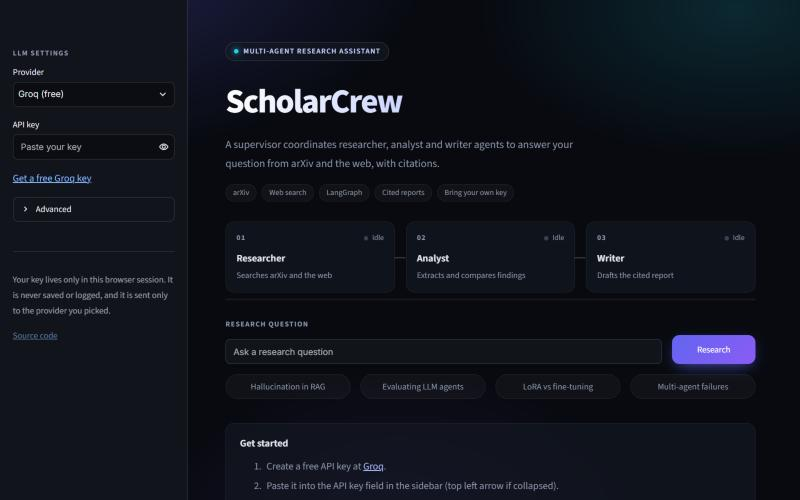
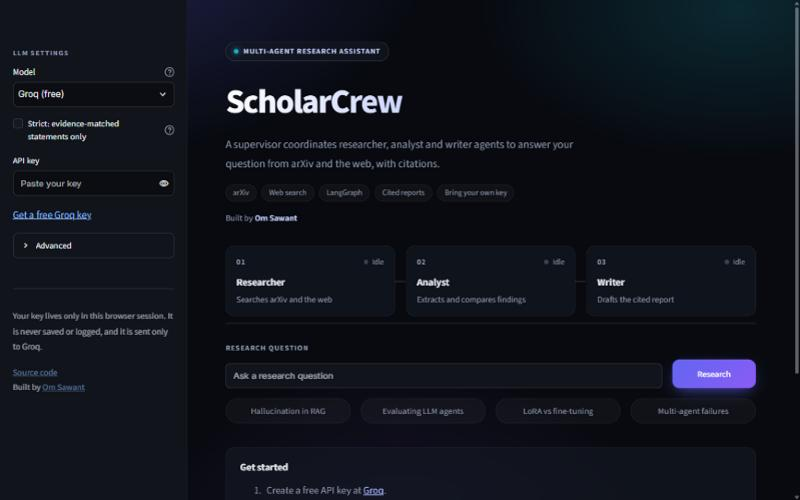
docs: refresh the README and screenshot (#35)

diff --git a/README.md b/README.md
@@ -32,9 +32,12 @@ Built on [LangGraph](https://github.com/langchain-ai/langgraph).
 - **Validated routing.** The supervisor checks every routing decision and falls back to a fixed
   order on malformed output. A step cap guarantees termination.
 - **Citations from retrieved sources only.** The reference list is built from the retrieved
-  sources, not written by the model. Each statement carries its own citations, re-pointed to the
-  source that best matches it.
-- **Optional strict mode.** Keeps only statements whose cited source contains matching text.
+  sources, not written by the model. The writer cites facts taken from sources and leaves its own
+  conclusions uncited; each cited statement carries its own citations, re-pointed to the source
+  that best matches it.
+- **Optional strict mode.** Keeps only cited statements whose source contains matching text. In
+  tests, about 90% of the statements kept were supported, against 80% without it, with about a
+  quarter dropped. A text match is not proof.
 - **Visible failures.** Model errors are logged, and the app checks the key and model before
   starting.
 - **Offline tests.** A scripted fake model and fake search tools; no network or key needed.
@@ -52,8 +55,9 @@ on 30 held-out questions (2 samples each, judge `qwen3.8-27b`):
 | Qwen3-4B + LoRA | 48% | 61% | 88% |
 
 Fine-tuning improved citation coverage, not faithfulness. The citation repair applied in the
-app raised both writers to 61%. Limitations (small sample, one judge, repair tuned on the same
-questions) are in [docs/evaluation.md](docs/evaluation.md).
+app raised both writers to 61%. Later writer changes and strict mode are measured in
+[docs/evaluation.md](docs/evaluation.md), with the limitations (small sample, one judge, repair
+tuned on the same questions).
 
 ## Run locally
 
@@ -61,6 +65,7 @@ questions) are in [docs/evaluation.md](docs/evaluation.md).
 pip install -e ".[app]"
 cp .env.example .env          # set LLM_API_KEY to your Groq key
 scholarcrew "How do researchers reduce hallucination in RAG systems?"
+scholarcrew "How do researchers reduce hallucination in RAG systems?" --strict
 streamlit run streamlit_app.py
 ```
 
